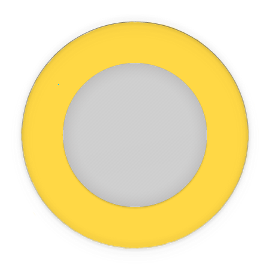
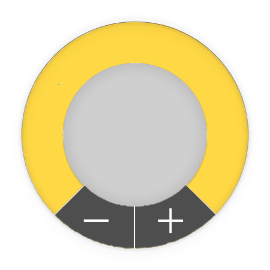
daikin koniec :)

Changed region(s): [[0.2074, 0.6815, 0.8, 0.9481]]

diff --git a/MSNweather-NP/Plugins/Extensions/MSNweather/aircon_Controller_daikin.py b/MSNweather-NP/Plugins/Extensions/MSNweather/aircon_Controller_daikin.py
@@ -28,7 +28,7 @@ from Components.j00zekModHex2strColor import Hex2strColor, clr
 #from Components.Pixmap import Pixmap
 from Components.Label import Label
 #from Components.Sources.StaticText import StaticText
-from enigma import eTimer
+from enigma import eTimer,ePoint
 from Screens.Screen import Screen
 
 from daikin_aircon import *
@@ -55,7 +55,7 @@ class DaikinController(Screen):
         self["outdoor_temp"] = Label("?")
         self["on_off_icon"] = j00zekAccellPixmap()
         self["back_wheel"] = j00zekAccellPixmap()
-        self["back_plus_minus"] = j00zekAccellPixmap()
+        self["temp_button"] = j00zekAccellPixmap()
         self["set_temp"] = Label("?")
         self["auto_icon"] = j00zekAccellPixmap()
         self["cool_icon"] = j00zekAccellPixmap()
@@ -85,11 +85,11 @@ class DaikinController(Screen):
             }
         )
         
-        self.AC_MODES = {1: {'IconName': 'auto_icon', 'Name': 'Auto',       'IconOn': 'op_auto_slct_eu.png', 'IconOff': 'op_auto_eu.png', 'BackImg': 'co_back_auto.png'},
-                         3: {'IconName': 'cool_icon', 'Name': 'Chłodzenie', 'IconOn': 'op_cool_slct_eu.png', 'IconOff': 'op_cool_eu.png', 'BackImg': 'co_back_cool.png'},
-                         4: {'IconName': 'heat_icon' , 'Name': 'Ogrzewanie', 'IconOn': 'op_heat_slct_eu.png', 'IconOff': 'op_heat_eu.png', 'BackImg': 'co_back_heat.png'},
-                         6: {'IconName': 'fan_icon' , 'Name': 'Wentylator', 'IconOn': 'op_fan_slct_eu.png',  'IconOff': 'op_fan_eu.png',  'BackImg': 'co_back_fan.png'},
-                         2: {'IconName': 'dry_icon', 'Name': 'Osuszanie',  'IconOn': 'op_dry_slct_eu.png',  'IconOff': 'op_dry_eu.png',  'BackImg': 'co_back_dry.png'},
+        self.AC_MODES = {1: {'IconName': 'auto_icon', 'Name': 'Auto',       'IconOn': 'op_auto_slct_eu.png', 'IconOff': 'op_auto_eu.png', 'BackImgOn': 'co_back_auto.png'},
+                         3: {'IconName': 'cool_icon', 'Name': 'Chłodzenie', 'IconOn': 'op_cool_slct_eu.png', 'IconOff': 'op_cool_eu.png', 'BackImgOn': 'co_back_cool.png'},
+                         4: {'IconName': 'heat_icon' , 'Name': 'Ogrzewanie', 'IconOn': 'op_heat_slct_eu.png', 'IconOff': 'op_heat_eu.png', 'BackImgOn': 'co_back_heat.png'},
+                         6: {'IconName': 'fan_icon' , 'Name': 'Wentylator', 'IconOn': 'op_fan_slct_eu.png',  'IconOff': 'op_fan_eu.png',  'BackImgOn': 'co_back_fan.png'},
+                         2: {'IconName': 'dry_icon', 'Name': 'Osuszanie',  'IconOn': 'op_dry_slct_eu.png',  'IconOff': 'op_dry_eu.png',  'BackImgOn': 'co_back_dry.png'},
                         }
         self.AC_FANRATES = { 'A': 'op_btm_fanspeed_auto_eu.png',
                              'B': 'op_btm_fanspeed_silent_eu.png',
@@ -99,6 +99,22 @@ class DaikinController(Screen):
                              '6': 'op_btm_fanspeed_5_lv4_eu.png',
                              '7': 'op_btm_fanspeed_5_lv5_eu.png',
                             }
+        self.AC_TEMP_BUTTON_POSITIONS = {18: (34,162),
+                                         19: (23,134),
+                                         20: (20,105),
+                                         21: (26,79),
+                                         22: (38,58),
+                                         23: (57,40),
+                                         24: (83,26),
+                                         25: (111,21),
+                                         26: (144,26),
+                                         27: (170,40),
+                                         28: (188,58),
+                                         29: (199,79),
+                                         30: (206,105),
+                                         31: (203,134),
+                                         32: (192,162),
+                                        }
         
         self.InitTimer = eTimer()
         self.InitTimer.callback.append(self.getACstate)
@@ -110,22 +126,22 @@ class DaikinController(Screen):
         
     def getACstate(self):
         self.InitTimer.stop()
-        sensor_info = self.AC.get_sensor_info()
-        control_info = self.AC.get_control_info()
+        self.sensor_info = self.AC.get_sensor_info()
+        self.control_info = self.AC.get_control_info()
 
         self["ac_name"].setText( _("%sName:%s %s") % (clr['G'], clr['Gray'], str(self.AC.get_name()) ) )
         
-        self["indoor_temp"].setText("%s°C" % int(sensor_info['htemp']))
-        self["outdoor_temp"].setText("%s°C" % int(sensor_info['otemp']))
+        self["indoor_temp"].setText("%s°C" % int(self.sensor_info['htemp']))
+        self["outdoor_temp"].setText("%s°C" % int(self.sensor_info['otemp']))
         
-        self.AC_POWER        = control_info['pow']
+        self.AC_POWER        = self.control_info['pow']
         try:
-            self.AC_SETTEMP  = int(control_info['stemp'])
+            self.AC_SETTEMP  = int(self.control_info['stemp'])
         except Exception:
             self.AC_SETTEMP  = 0
-        self.AC_MODE         = control_info['mode']
-        self.AC_FANRATE      = str(control_info['f_rate'])
-        self.AC_FANDIRECTION = str(control_info['f_dir'])
+        self.AC_MODE         = self.control_info['mode']
+        self.AC_FANRATE      = str(self.control_info['f_rate'])
+        self.AC_FANDIRECTION = str(self.control_info['f_dir'])
         
         if self.AC_SETTEMP == 0:
             self["set_temp"].setText(" ")
@@ -136,12 +152,23 @@ class DaikinController(Screen):
         if self.AC_POWER:
             self["key_green"].setText(_("Turn off"))
             self.updateICON("on_off_icon", "on_60x60.png")
-            self.updateICON("back_wheel",  self.AC_MODES[self.AC_MODE]['BackImg'])
+            self.updateICON("back_wheel",  self.AC_MODES[self.AC_MODE]['BackImgOn'])
         else:
             self["key_green"].setText(_("Turn on"))
             self.updateICON("on_off_icon", "off_60x60.png")
-            self.updateICON("back_wheel",  "co_back_off.png")
+            if self.AC_MODE in (2,6):
+                self.updateICON("back_wheel",  "co_back_off.png")
+            else:
+                self.updateICON("back_wheel",  "co_back_off_plus_minus.png")
             #self.updateICON("fan_speed_icon",  "op_btm_fanspeed_off_eu.png")
+        
+        if self.AC_MODE in (2,6):
+            hideICON("temp_button")
+        else:
+            self.updateICON("temp_button",  "op_temp_button.png")
+            #back_wheel_Pos =  self["back_wheel"].instance.position()
+            pos = self.AC_TEMP_BUTTON_POSITIONS[self.AC_SETTEMP]
+            self["temp_button"].instance.move(ePoint(pos[0] + 220, pos[1] + 370))
         
         #off all
         for key, value in self.AC_MODES.items():
@@ -156,16 +183,11 @@ class DaikinController(Screen):
         else:
             self.updateICON("fan_dir_icon", "op_btm_drction_ul_off_eu.png")
             
-        if self.AC_MODE in (3,4):
-            self.updateICON("back_plus_minus", "co_back_plus_minus.png")
-        else:
-            self.hideICON("back_plus_minus")
-        
     def hideICON(self, iconName):
         self[iconName].hide()
         
     def updateICON(self, iconName, fileName):
-        #self["on_off_icon"].hide()
+        #self[iconName].hide()
         self[iconName].updateIcon("/usr/lib/enigma2/python/Plugins/Extensions/MSNweather/aircon_data/%s" % fileName)
         self[iconName].show()
 
@@ -196,11 +218,11 @@ class DaikinController(Screen):
         self.getACstate()
 
     def keyBlue(self): #mode
-        if self.AC_MODE == 1:   self.AC.set_mode(3)
-        elif self.AC_MODE == 3: self.AC.set_mode(4)
-        elif self.AC_MODE == 4: self.AC.set_mode(6)
-        elif self.AC_MODE == 6: self.AC.set_mode(2)
-        elif self.AC_MODE == 2: self.AC.set_mode(1)
+        if self.AC_MODE == 1:   self.AC.set_mode(3, self.control_info.get('dt3', 24))
+        elif self.AC_MODE == 3: self.AC.set_mode(4, self.control_info.get('dt4', 24))
+        elif self.AC_MODE == 4: self.AC.set_mode(6, self.control_info.get('dt6', 24))
+        elif self.AC_MODE == 6: self.AC.set_mode(2, 24) #ac returns M
+        elif self.AC_MODE == 2: self.AC.set_mode(1, self.control_info.get('dt1', 24))
         self.getACstate()
 
     def setTemp(self, doIncrease):

diff --git a/MSNweather-NP/Plugins/Extensions/MSNweather/daikin_aircon.py b/MSNweather-NP/Plugins/Extensions/MSNweather/daikin_aircon.py
@@ -64,8 +64,8 @@ class Aircon():
     def get_mode(self):
         return self.get_control_info()['mode']
 
-    def set_mode(self, v):
-        self.set_control_info({'mode': v})
+    def set_mode(self, v, t): #to fix error when for switching from fan/dry mode to any other t value has been included
+        self.set_control_info({'mode': v, 'stemp': t })
 
     mode = property(get_mode, set_mode)
 
@@ -100,6 +100,8 @@ class Aircon():
             minimal_cinfo = {k:cinfo[k] for k in cinfo if k in ['pow','mode','stemp', 'shum','f_rate','f_dir']}
             minimal_cinfo.update(params)
             params = minimal_cinfo
+        if params['shum'] == '--': #fix error when for switching from fan/dry mode to any other
+            params['shum'] = 0
         self.send_request('GET', '/aircon/set_control_info', fields=params)
 
     def set_control_info(self, params, update=True):

diff --git a/MSNweather-NP/Plugins/Extensions/MSNweather/version.py b/MSNweather-NP/Plugins/Extensions/MSNweather/version.py
@@ -1,1 +1,1 @@
-Version='20.07.23.0905'
+Version='20.07.25.0728'
